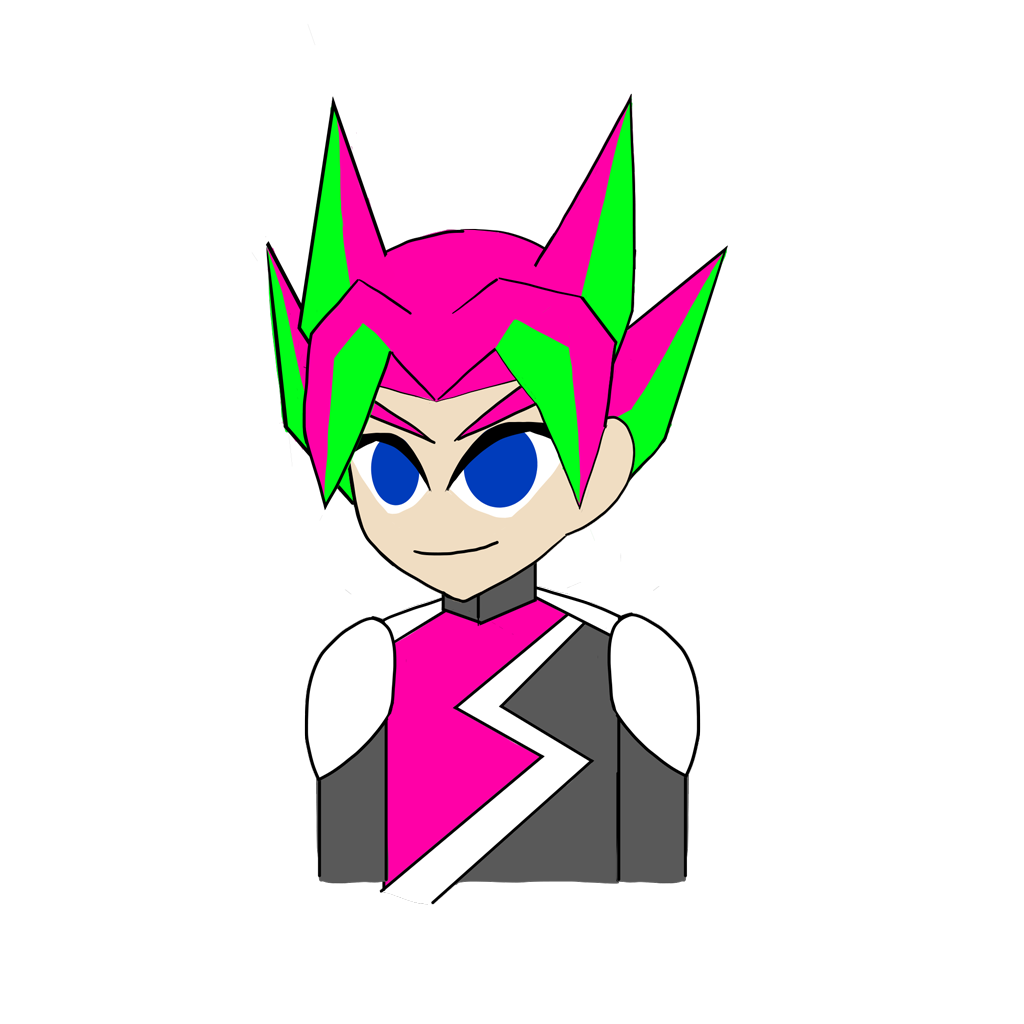
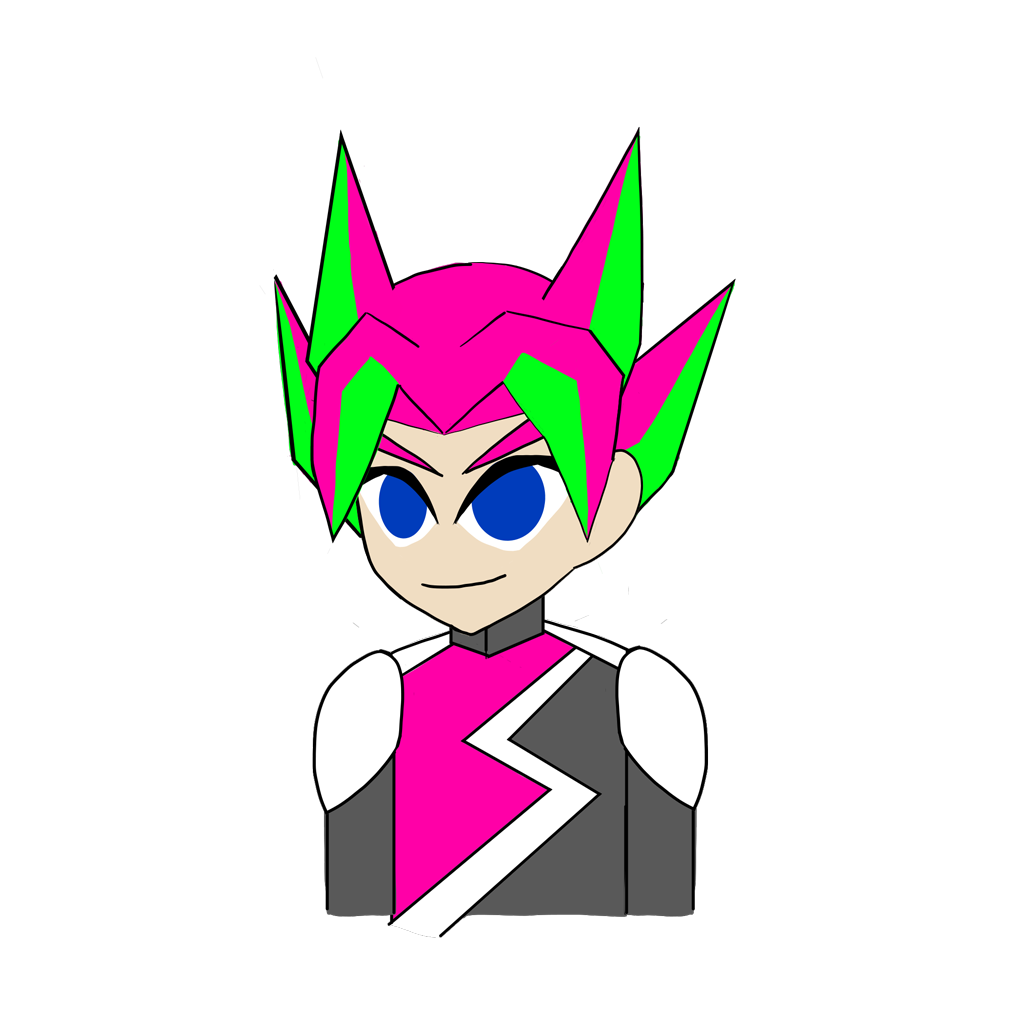
ライトのパイロットカットインを出せるようにした

Changed region(s): [[0.25, 0.0938, 0.7188, 0.9062]]

diff --git a/src/js/game-object/cut-in/shinya/view/player-shinya-view.js b/src/js/game-object/cut-in/shinya/view/player-shinya-view.js
@@ -32,7 +32,8 @@ export class PlayerShinyaView implements ShinyaView {
    * @param resources リソース管理オブジェクト
    */
   constructor(resources: Resources) {
-    const shinyaResource = resources.textures.find(v => v.id === TEXTURE_IDS.SHINYA_CUTIN);
+    //const shinyaResource = resources.textures.find(v => v.id === TEXTURE_IDS.SHINYA_CUTIN); // TODO 開発終了後に戻す
+    const shinyaResource = resources.textures.find(v => v.id === TEXTURE_IDS.RAITO_CUTIN);
     const shinya = shinyaResource?.texture ?? new THREE.Texture();
     this._mesh = new HorizontalAnimationMesh({
       texture: shinya,
